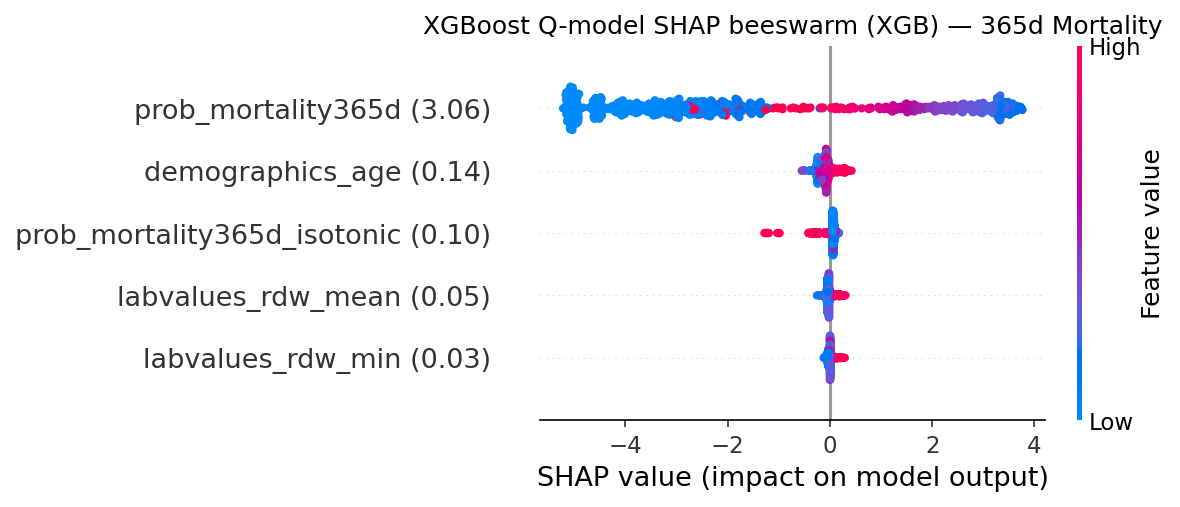
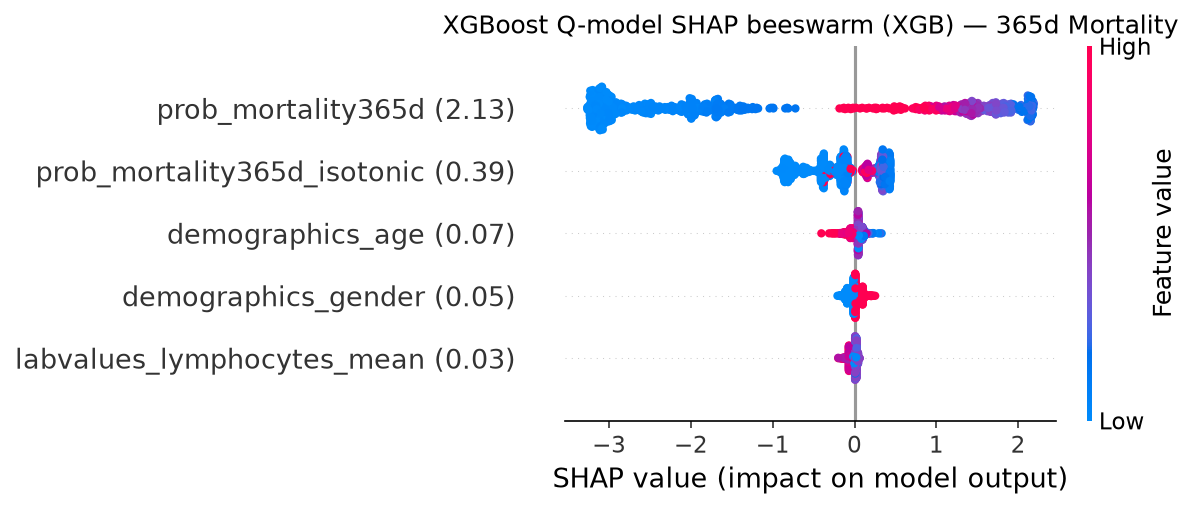
push

diff --git a/experiments/mortality/statistics.py b/experiments/mortality/statistics.py
@@ -23,12 +23,12 @@ Output: statistical_tests_summary_mortality365d.csv in ARTIFACTS_DIR,
 one row per base model, with all three test results.
 """
 
-import sys as _sys
+import sys 
 from pathlib import Path as _Path
-_sys.path.insert(0, str(_Path(__file__).resolve().parents[2]))
+sys.path.insert(0, str(_Path(__file__).resolve().parents[2]))
 import config
 sys.path.insert(0, config.SRC_DIR)
-from clinical_ts.qmodel_protocol import add_protocol_fold, TRAIN_FOLDS, TEST_FOLD
+from clinical_ts.qmodel_protocol import add_protocol_fold, TRAIN_FOLDS, TEST_FOLD, QMODEL_FOLDS
 import os
 import warnings
 warnings.filterwarnings('ignore')
@@ -261,8 +261,7 @@ for base_model in MODEL_ORDER:
     print(f"\n{'='*70}\n{base_model} | thr={cfg['thr']} | {cfg['strategy']} | {cfg['qtype']}\n{'='*70}")
 
     npz = np.load(cfg['npz'])
-    test_mask_key = 'mask_te' if base_model == 'XGBoost' else 'test_mask'
-    test_mask = npz[test_mask_key]
+    test_mask = npz['test_mask']
 
     # ---- rebuild base tabular TEST features ----
     if base_model == 'XGBoost':
@@ -273,7 +272,7 @@ for base_model in MODEL_ORDER:
         labvalues_columns    = [c for c in df_full.columns if 'labvalues_' in c]
         all_features = demographics_columns + biometrics_columns + vitals_columns + labvalues_columns
         df_full = add_protocol_fold(df_full)
-        selected_folds = df_full[df_full['protocol_fold'].isin(TRAIN_FOLDS)]
+        selected_folds = df_full[df_full['protocol_fold'].isin(QMODEL_FOLDS)]
         medians = selected_folds[all_features].median()
         mask_columns = []
         for col in all_features:

diff --git a/experiments/icu24h/statistics.py b/experiments/icu24h/statistics.py
@@ -17,12 +17,12 @@ Output: statistical_tests_summary_icu24h.csv in ARTIFACTS_DIR, one row
 per base model, with all three test results.
 """
 
-import sys as _sys
+import sys 
 from pathlib import Path as _Path
-_sys.path.insert(0, str(_Path(__file__).resolve().parents[2]))
+sys.path.insert(0, str(_Path(__file__).resolve().parents[2]))
 import config
 sys.path.insert(0, config.SRC_DIR)
-from clinical_ts.qmodel_protocol import add_protocol_fold, TRAIN_FOLDS, TEST_FOLD
+from clinical_ts.qmodel_protocol import add_protocol_fold, TRAIN_FOLDS, TEST_FOLD, QMODEL_FOLDS
 import os
 import warnings
 warnings.filterwarnings('ignore')
@@ -247,8 +247,7 @@ for base_model in MODEL_ORDER:
     print(f"\n{'='*70}\n{base_model} | thr={cfg['thr']} | {cfg['strategy']} | {cfg['qtype']}\n{'='*70}")
 
     npz = np.load(cfg['npz'])
-    test_mask_key = 'mask_te' if base_model == 'XGBoost' else 'test_mask'
-    test_mask = npz[test_mask_key]
+    test_mask = npz['test_mask']
 
     # ---- rebuild base tabular TEST features ----
     if base_model == 'XGBoost':
@@ -259,7 +258,7 @@ for base_model in MODEL_ORDER:
         labvalues_columns    = [c for c in df_full.columns if 'labvalues_' in c]
         all_features = demographics_columns + biometrics_columns + vitals_columns + labvalues_columns
         df_full = add_protocol_fold(df_full)
-        selected_folds = df_full[df_full['protocol_fold'].isin(TRAIN_FOLDS)]
+        selected_folds = df_full[df_full['protocol_fold'].isin(QMODEL_FOLDS)]
         medians = selected_folds[all_features].median()
         mask_columns = []
         for col in all_features:
